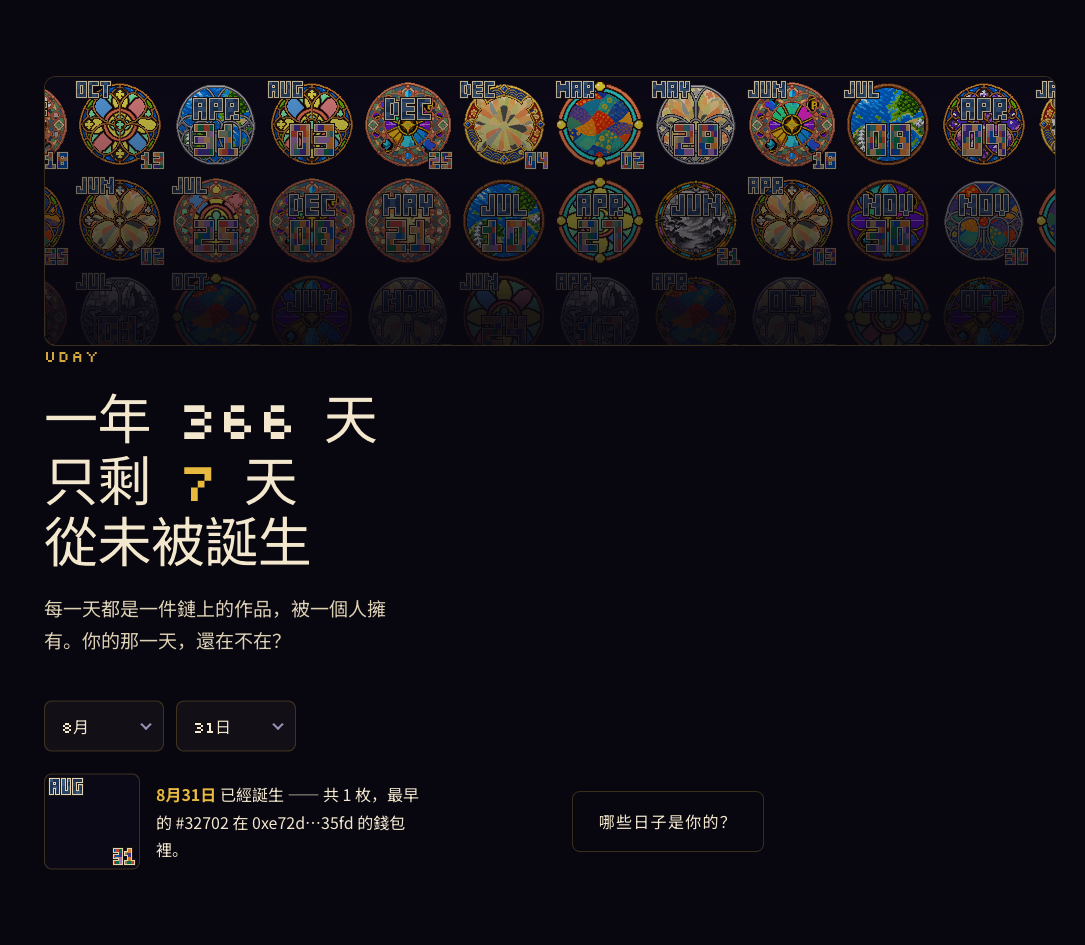
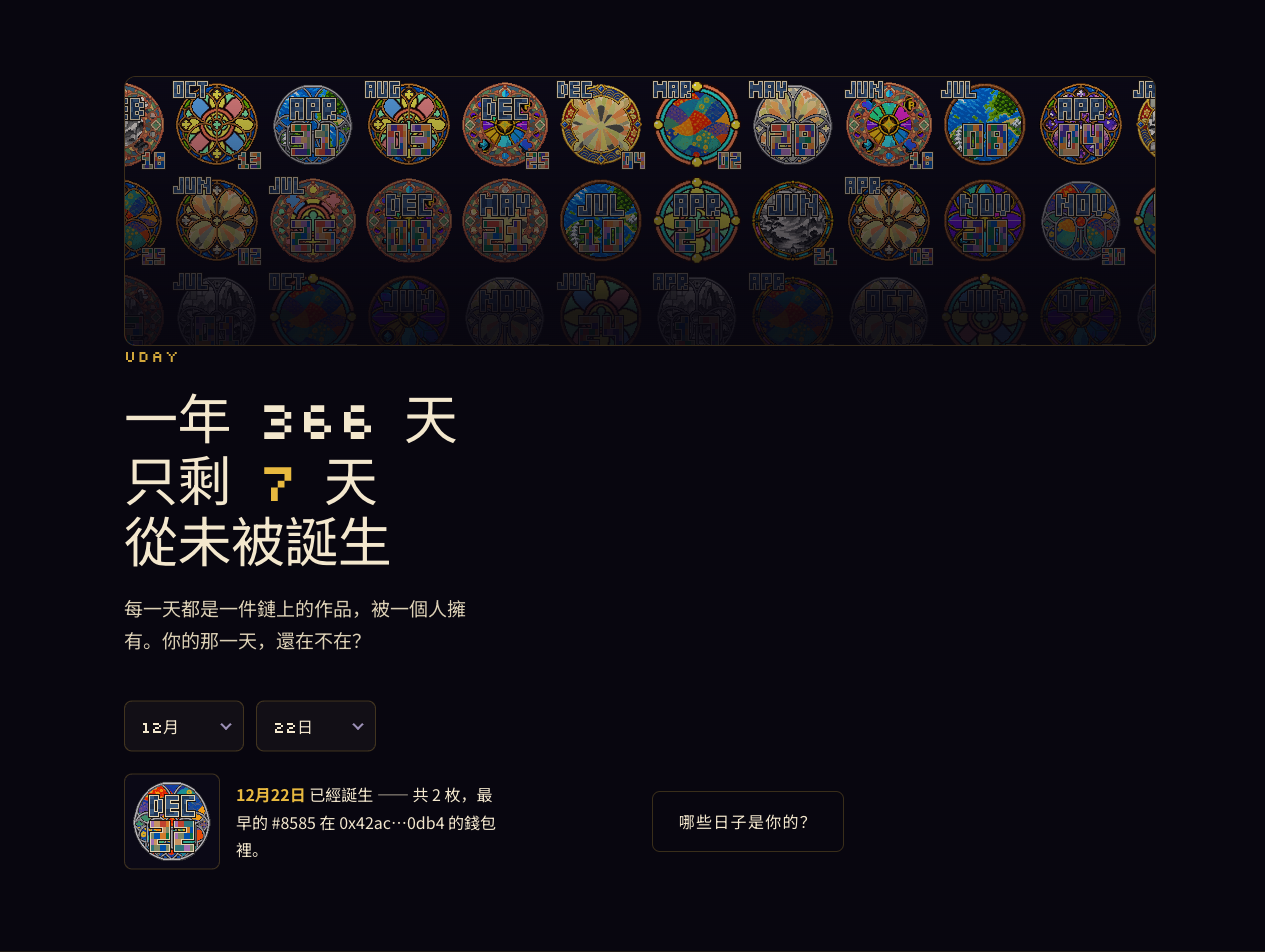
land: the hero opens on a dressed piece, not on whatever today is
Before anyone touches the picker the hero is a showcase; only after they
touch it is it a lookup. Defaulting to today gambled that first
impression on a coin flip -- plate and frame are optional (80%/20%), 234
pieces carry neither, and only 183 of 365 days hold a fully-dressed one.

Today (08-31) holds exactly ONE piece and it is bare, so the first
artwork on the page was an empty box sitting under a banner strip of
rose windows. The best-dressed rule was already applied; it had nothing
to choose from.

The default day is now seeded by the date and drawn from days that have
a fully-dressed piece: it changes daily and never opens weak. Today did
not go missing -- section 2's year grid lights it.

diff --git a/land.html b/land.html
@@ -447,6 +447,25 @@ async function drawLayers(){
   await paintInto(sum, parts.map(p => p[0]), 96);
 }
 
+// Before anyone touches the picker, the hero is a SHOWCASE — after they touch
+// it, it is a lookup. Defaulting to today gambles that first impression on a
+// coin flip: plate and frame are optional (80%/20%), 234 pieces carry neither,
+// and only 183 of 365 days hold a fully-dressed one. Today happened to be a
+// single bare piece, so the first artwork a visitor saw was an empty box.
+// Seeded by the date, so it changes daily and never opens on a weak tile.
+function showcaseDay(){
+  const dressed = Object.keys(DAYS).filter(k => {
+    const m = +k.slice(0, 2), d = +k.slice(3);
+    return m >= 1 && m <= 12 && d >= 1 && d <= DIM[m - 1]
+        && DAYS[k].some(e => e.p && e.f);
+  }).sort();
+  if(!dressed.length) return;                    // early collection: keep today
+  const now = new Date();
+  const seed = Math.floor(Date.UTC(now.getFullYear(), now.getMonth(), now.getDate()) / 864e5);
+  const k = dressed[seed % dressed.length];
+  curM = +k.slice(0, 2); curD = +k.slice(3);
+}
+
 render();
 drawLayers();          // independent of the index — no reason to wait for it
 drawYearlet();
@@ -458,6 +477,8 @@ fetch('/data/date-index.json').then(r=>r.json()).then(j=>{
   document.querySelector('h1').innerHTML =
     '一年 366 天<br>只剩 <span style="color:var(--gold)">'+(366-lit)+'</span> 天<br>從未被誕生';
   $('sealed').textContent = (j.unrevealed||0).toLocaleString();
+  showcaseDay();
+  render();
   draw();
 }).catch(()=>{ $('out').textContent = '索引讀取失敗'; });
 </script>
